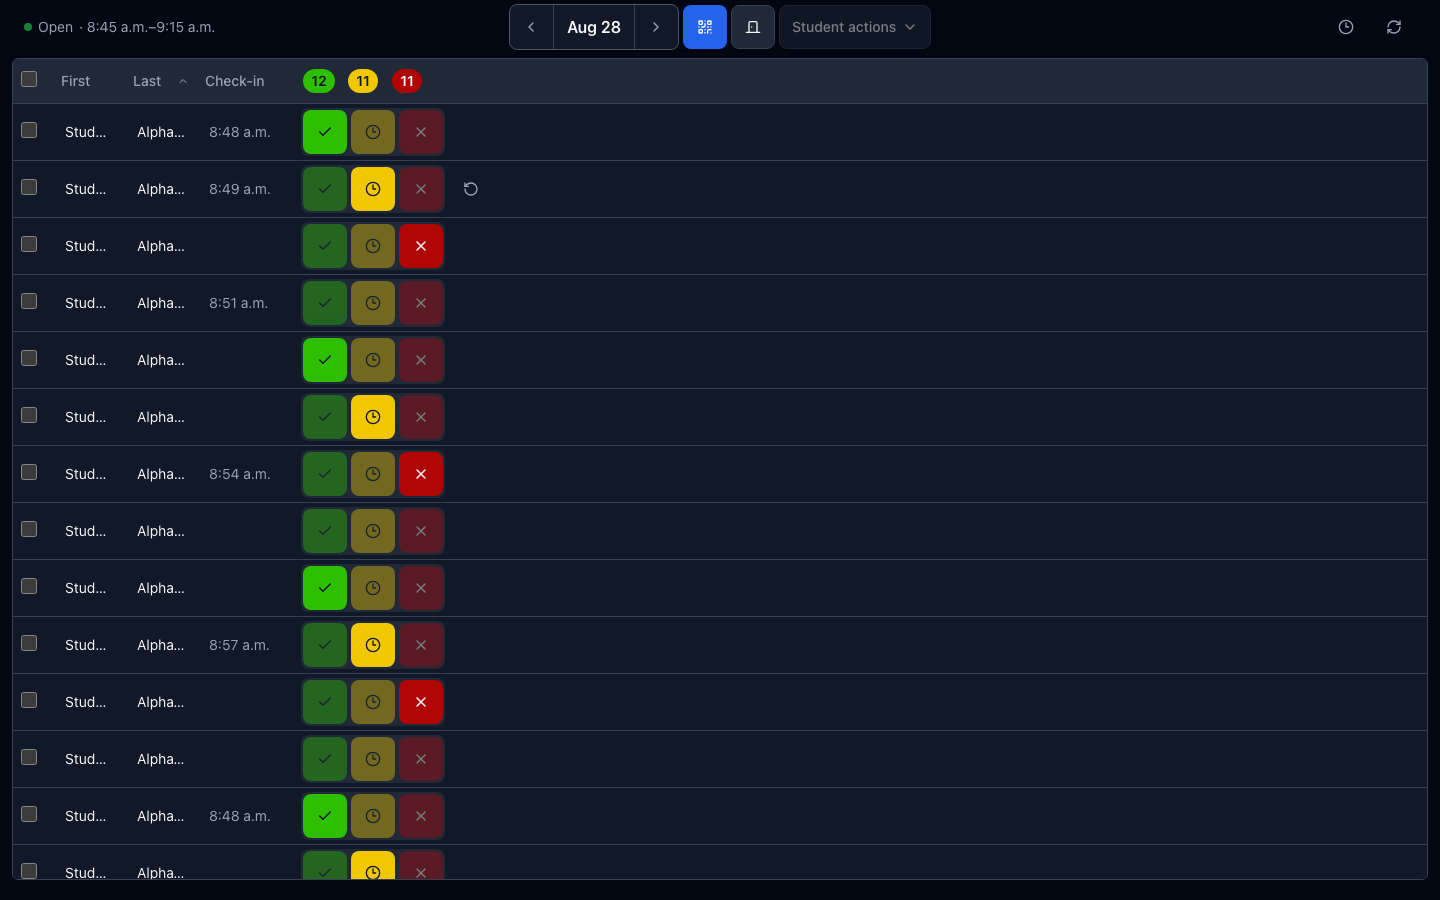
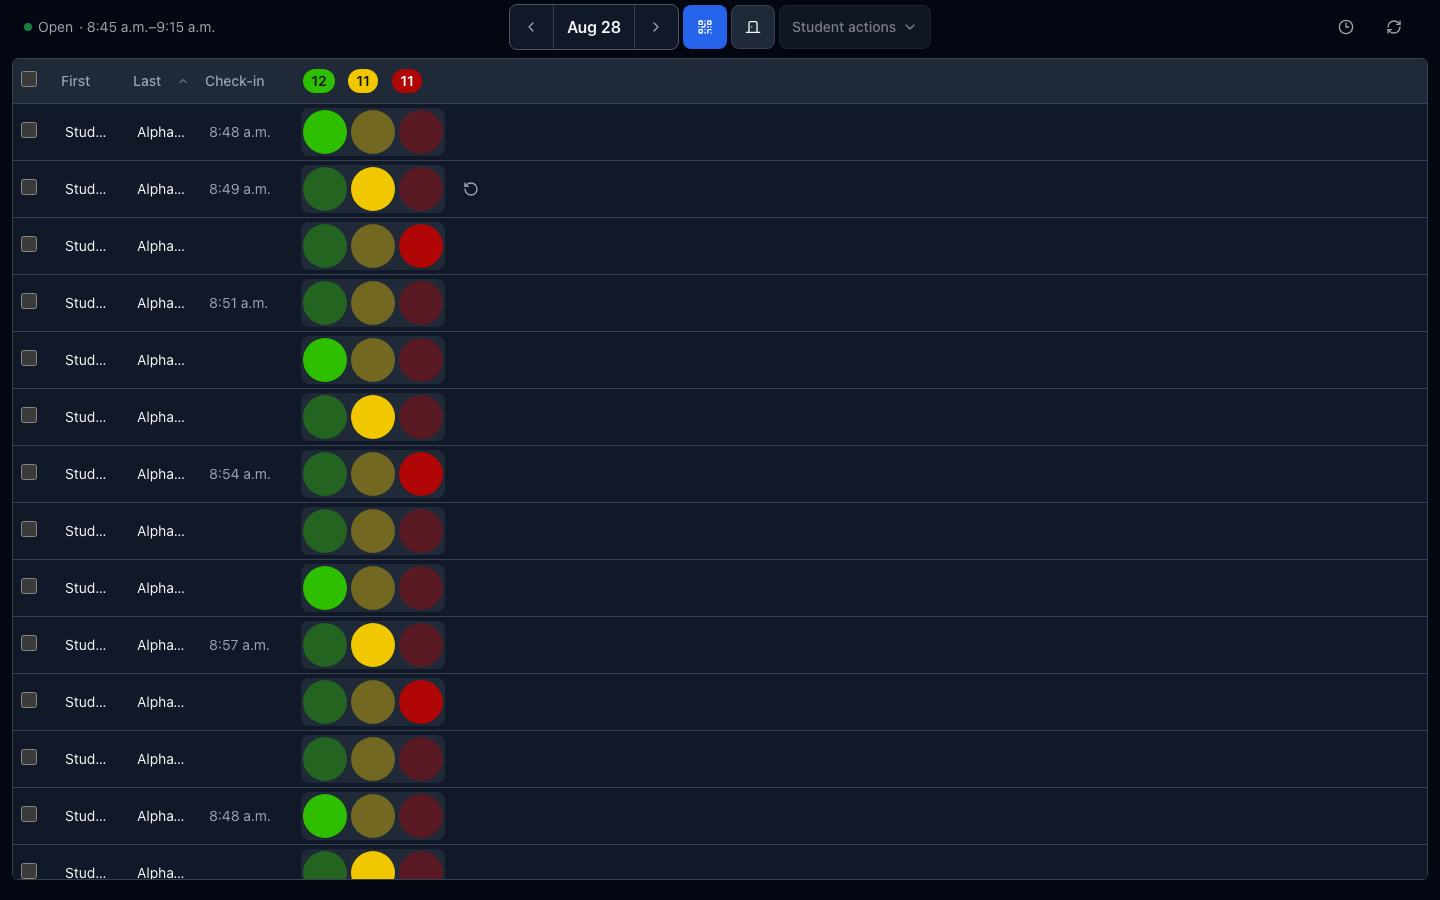
Refine Attendance row status controls

Changed region(s): [[0.2188, 0.1244, 0.3125, 0.9644]]

diff --git a/src/app/classrooms/[classroomId]/TeacherLiveAttendanceTab.tsx b/src/app/classrooms/[classroomId]/TeacherLiveAttendanceTab.tsx
@@ -1,9 +1,8 @@
 'use client'
 
-import { useCallback, useEffect, useMemo, useRef, useState, type ReactNode } from 'react'
+import { useCallback, useEffect, useMemo, useRef, useState } from 'react'
 import { addDays, format, parseISO } from 'date-fns'
 import {
-  Check,
   ChevronDown,
   ClipboardCopy,
   Clock3,
@@ -14,7 +13,6 @@ import {
   RotateCcw,
   UserRoundCheck,
   UserRoundX,
-  X,
 } from 'lucide-react'
 import { CalendarDateNavigator } from '@/components/CalendarActionBar'
 import {
@@ -98,12 +96,6 @@ const STATUS_BUTTON_CLASSES: Record<StatusSort, string> = {
   absent: 'border-transparent bg-attendance-absent text-attendance-absent-text hover:bg-attendance-absent',
 }
 
-const STATUS_ICONS: Record<StatusSort, ReactNode> = {
-  present: <Check className="h-4 w-4" aria-hidden="true" />,
-  late: <Clock3 className="h-4 w-4" aria-hidden="true" />,
-  absent: <X className="h-4 w-4" aria-hidden="true" />,
-}
-
 function AttendanceStatusSortChip({
   status,
   count,
@@ -163,9 +155,8 @@ function AttendanceStatusControl({
       options={SORTABLE_STATUSES.map((optionStatus) => ({
         value: optionStatus,
         label: STATUS_LABELS[optionStatus],
-        icon: STATUS_ICONS[optionStatus],
         disabled,
-        className: STATUS_BUTTON_CLASSES[optionStatus],
+        className: cn('rounded-full', STATUS_BUTTON_CLASSES[optionStatus]),
         activeClassName: 'opacity-100 shadow-sm',
         inactiveClassName: 'opacity-40 hover:opacity-70',
       }))}

diff --git a/e2e/experience-matrix.spec.ts b/e2e/experience-matrix.spec.ts
@@ -299,6 +299,21 @@ test('keeps the Attendance roster compact with inline status controls', async ({
   const firstStudentStatus = page.getByRole('group', {
     name: 'Attendance status for Student 01 Alpha01',
   })
+  for (const label of ['Present', 'Late', 'Absent']) {
+    const statusButton = firstStudentStatus.getByRole('button', { name: label })
+    await expect(statusButton.locator('svg')).toHaveCount(0)
+    const geometry = await statusButton.evaluate((element) => {
+      const styles = window.getComputedStyle(element)
+      const bounds = element.getBoundingClientRect()
+      return {
+        width: bounds.width,
+        height: bounds.height,
+        radius: Number.parseFloat(styles.borderTopLeftRadius),
+      }
+    })
+    expect(Math.abs(geometry.width - geometry.height)).toBeLessThan(1)
+    expect(geometry.radius).toBeGreaterThanOrEqual(geometry.width / 2)
+  }
   await expect(firstStudentStatus.getByRole('button', { name: 'Present' })).toHaveAttribute('aria-pressed', 'true')
   await firstStudentStatus.getByRole('button', { name: 'Late' }).click()
   await expect(page.getByRole('button', {

diff --git a/tests/components/TeacherLiveAttendanceTab.test.tsx b/tests/components/TeacherLiveAttendanceTab.test.tsx
@@ -229,6 +229,11 @@ describe('TeacherLiveAttendanceTab', () => {
       'bg-attendance-absent',
       'text-attendance-absent-text',
     )
+    for (const label of ['Present', 'Late', 'Absent']) {
+      const statusButton = within(graceStatus).getByRole('button', { name: label })
+      expect(statusButton).toHaveClass('rounded-full')
+      expect(statusButton.querySelector('svg')).not.toBeInTheDocument()
+    }
     expect(screen.getByTestId('attendance-context-bar')).not.toHaveTextContent(/\d+ present/i)
 
     const statusGroup = screen.getByRole('group', { name: 'Sort attendance by status' })

diff --git a/design-qa.md b/design-qa.md
@@ -2,7 +2,7 @@
 
 ## Comparison Target
 
-- Source visual truth: `docs/guidance/ui/evidence/attendance-actions-2026-08-27/approved-design-reference.png` for the selected hierarchy, plus the user's explicit interaction revisions through 2026-08-28 (checkbox selection and persistent selected-student menu restored; inline three-state corrections retained; QR Undo retained; Check-in time retained; visible `Status` header label removed)
+- Source visual truth: `docs/guidance/ui/evidence/attendance-actions-2026-08-27/approved-design-reference.png` for the selected hierarchy, plus the user's explicit interaction revisions through 2026-08-28 (checkbox selection and persistent selected-student menu restored; inline three-state corrections retained; QR Undo retained; Check-in time retained; visible `Status` header label removed; row attendance icons removed and the three status targets made circular)
 - Primary implementation screenshots:
   - `docs/guidance/ui/evidence/attendance-actions-2026-08-27/teacher-desktop-light-default.png`
   - `docs/guidance/ui/evidence/attendance-actions-2026-08-27/teacher-desktop-light-manual-with-undo.png`
@@ -21,6 +21,7 @@
 - Focused default comparison: `docs/guidance/ui/evidence/attendance-actions-2026-08-27/qa-focus-default.png`; the 1486 x 529 source default crop and 1440 x 529 implementation crop are placed side by side without density scaling.
 - Focused selected comparison: `docs/guidance/ui/evidence/attendance-actions-2026-08-27/qa-focus-selected-menu.png`; the 1486 x 529 source selected crop and 1440 x 529 implementation selected-menu crop are placed side by side without density scaling.
 - Revised interaction comparison: `docs/guidance/ui/evidence/attendance-actions-2026-08-27/qa-focus-revision.png`; the full source board was scaled to 900 px high and placed beside the unscaled 1440 x 900 implementation selected-menu state, with the user's explicit Attendance revisions treated as authoritative where they supersede the generated image.
+- Row-control before/after comparisons: `docs/guidance/ui/evidence/attendance-actions-2026-08-27/qa-circle-controls-desktop.png` at 2880 x 900 and `docs/guidance/ui/evidence/attendance-actions-2026-08-27/qa-circle-controls-mobile.png` at 780 x 844; each places the preceding icon-bearing implementation beside the revised circular implementation at matching viewport, theme, state, and density.
 - The source is an exploration board rather than a browser capture, so comparisons judge hierarchy and component treatment rather than false pixel precision.
 
 ## Findings
@@ -29,14 +30,21 @@ No actionable P0, P1, or P2 mismatch remains.
 
 - Fonts and typography: the implementation uses Pika's production font stack, weights, and compact table type scale. The generated source typography is illustrative; hierarchy, legibility, and truncation behavior are consistent with the shared work surface.
 - Spacing and layout rhythm: the centered cluster, quiet edges, tight roster, and table border/radius match the selected hierarchy. The date arrows directly touch the date segment. At 390 px, nonessential session context is visually condensed and session commands/utilities collapse to one compact icon menu without overlap.
-- Colors and visual tokens: semantic Pika surface, text, focus, attendance-status, light, and dark tokens render consistently. The active state is full-strength while the other two status choices remain visible at lower emphasis; icons and `aria-pressed` ensure the control does not rely on color alone.
-- Image quality and asset fidelity: the work surface requires no photographic or generated product asset. Production Lucide icons replace the generated board's illustrative icons and remain optically consistent with the existing Pika icon family; no handcrafted SVG, CSS art, emoji, or placeholder imagery was introduced.
+- Colors and visual tokens: semantic Pika surface, text, focus, attendance-status, light, and dark tokens render consistently. The active state is full-strength while the other two status choices remain visible at lower emphasis. The fixed Present/Late/Absent order, hover/focus tooltips, and accessible names provide meaning beyond color after the user-requested icon removal.
+- Image quality and asset fidelity: the work surface requires no photographic or generated product asset. The row attendance controls intentionally contain no icons; remaining utility and menu icons use Pika's existing Lucide family. No handcrafted SVG, CSS art, emoji, or placeholder imagery was introduced.
 - Copy and content: the implementation preserves Attendance-specific terms (`Show QR`, `Open attendance`, `Close attendance`, `Present`, `Late`, `Absent`, `Restore QR check-in`, and `Attendance hours`) and does not import Test terminology. `Check-in` contains the Toronto-local QR check-in time and is visually empty when the student has no QR check-in.
-- Icons and affordances: every icon action has an explicit accessible name and tooltip. The selectable date contains no dropdown chevron. The persistent selected-student menu uses Attendance terms and remains disabled until selection. Row status controls use the green/check, yellow/clock, and red/x mapping, and the trailing header keeps only the matching sortable counts without a visible `Status` label.
+- Icons and affordances: every remaining icon action has an explicit accessible name and tooltip. The selectable date contains no dropdown chevron. The persistent selected-student menu uses Attendance terms and remains disabled until selection. Row status controls are three equal circular, icon-free targets in the fixed green Present, yellow Late, red Absent order; their tooltips and accessible names preserve explicit meaning. The trailing header keeps only the matching sortable counts without a visible `Status` label.
 - Responsiveness and accessibility: desktop/mobile light/dark captures have no document overflow. All direct controls meet the 44 px `min-h-control` target and use the canonical focus-visible treatment. The three-state control supplies a named group, named pressed-state buttons, roving focus, and Arrow/Home/End behavior. Mobile session and utility menus retain all actions.
-- Interaction/runtime check: checkbox selection, select-all semantics, the selected-student menu, direct row status changes, QR Undo visibility, status sorting, internal scrolling/sticky header, mobile session menu, utilities, and Attendance hours were exercised in Chromium. Browser console and page errors were collected and remained empty in all four projects.
+- Interaction/runtime check: checkbox selection, select-all semantics, the selected-student menu, direct row status changes, QR Undo visibility, status sorting, internal scrolling/sticky header, mobile session menu, utilities, and Attendance hours were exercised in Chromium. The matrix additionally asserts zero SVG descendants, equal width/height, and a radius of at least half the width for every row status target. Browser console and page errors were collected and remained empty in all four projects.
 
 ## Comparison History
+
+### Pass 6 — icon-free circular row controls, passed
+
+- Removed the check, clock, and x icons only from the three attendance buttons inside each roster row; selected-student menu and utility icons remain unchanged.
+- Changed each 44 x 44 status target from a rounded square to a circle while preserving semantic color, fixed Present/Late/Absent order, tooltips, named pressed states, and roving Arrow/Home/End keyboard behavior.
+- Desktop/mobile light/dark before/after boards and the refreshed source/implementation comparisons show the roster density and hierarchy unchanged. The four-project Chromium matrix passed with no browser or page errors and explicit circle/icon-absence geometry checks.
+- No actionable P0/P1/P2 issue remains.
 
 ### Pass 5 — checkbox selection restored, passed
 

diff --git a/docs/guidance/ui/evidence/attendance-actions-2026-08-27/record.md b/docs/guidance/ui/evidence/attendance-actions-2026-08-27/record.md
@@ -5,7 +5,7 @@
 - Implementation commit: `8ea38427900b754eab01cf9f972d01c9663e0d50`
 - Capture date: 2026-08-28
 - Capture tool: Playwright Chromium through `e2e/experience-matrix.spec.ts`
-- Base URL or environment: local `PIKA_E2E_FIXTURES=true` Next.js development server with placeholder-only build/runtime configuration
+- Base URL or environment: local `PIKA_E2E_FIXTURES=true` Next.js development server backed by the local ephemeral Supabase environment
 - Routes or component surfaces: `/e2e-fixtures/teacher-live-attendance`; teacher Attendance roster
 - Evidence location: `docs/guidance/ui/evidence/attendance-actions-2026-08-27/`
 - Historical baseline or current conformance evidence: current conformance evidence; `approved-design-reference.png` is the selected Product Design exploration, not product authority
@@ -31,6 +31,8 @@
 | `teacher-mobile-dark-manual-with-undo.png` | teacher | 390 x 844 | dark | QR check-in manually corrected; Undo visible; one row selected | teacher Attendance |
 | `teacher-mobile-dark-selected-menu.png` | teacher | 390 x 844 | dark | one checked student; selected-student menu open | teacher Attendance |
 | `teacher-mobile-dark-hours-dialog.png` | teacher | 390 x 844 | dark | Attendance hours dialog | teacher Attendance |
+| `qa-circle-controls-desktop.png` | teacher | 2880 x 900 comparison | light | preceding icon-bearing row controls beside revised icon-free circular controls | teacher Attendance |
+| `qa-circle-controls-mobile.png` | teacher | 780 x 844 comparison | dark | preceding icon-bearing row controls beside revised icon-free circular controls | teacher Attendance |
 
 The `*-selected.png` captures mirror the current manually corrected selected-row
 state. The `*-selected-menu.png` captures are the authoritative selected-action
@@ -40,7 +42,7 @@ the superseded whole-roster action direction and are no longer conformance evide
 ## Assessment
 
 - Design claim being checked: the date and session context stay quiet at the edges, while the joined date navigator, session actions, and persistent selected-student menu form the dominant centered cluster above an internally scrolling roster with checkbox selection and inline row corrections.
-- Confirmed invariants: previous/date/next controls are contiguous; the selectable date has no dropdown chevron; each student has a checkbox and the header has a select-all checkbox; the selected-student menu stays visible but disabled with no selection and exposes the selected count when enabled; whole-roster status buttons are absent; per-student controls expose three named pressed states; the trailing header shows sortable Present/Late/Absent counts without a visible `Status` label; QR-origin corrections expose Undo; Check-in shows the QR time or remains visually empty; mobile session actions collapse without losing QR/open/close/hours/refresh access; utilities remain reachable; the roster scrolls internally with sticky sortable/resizable headers; there is no page overflow or action overlap.
+- Confirmed invariants: previous/date/next controls are contiguous; the selectable date has no dropdown chevron; each student has a checkbox and the header has a select-all checkbox; the selected-student menu stays visible but disabled with no selection and exposes the selected count when enabled; whole-roster status buttons are absent; per-student controls expose three named pressed states as equal icon-free circles in fixed Present/Late/Absent order; the trailing header shows sortable Present/Late/Absent counts without a visible `Status` label; QR-origin corrections expose Undo; Check-in shows the QR time or remains visually empty; mobile session actions collapse without losing QR/open/close/hours/refresh access; utilities remain reachable; the roster scrolls internally with sticky sortable/resizable headers; there is no page overflow or action overlap.
 - Inconsistencies or migration debt: none identified for this scope.
 - Intentional differences: the implementation retains Attendance terminology, existing QR/session command rules, Pika typography/tokens, real command-confirmation polling, and existing permission gates. It projects the original QR check-in time/status from Pika's signed integration inbox so a later staff correction does not erase the provenance needed by Undo. Mobile condenses session context and utilities while preserving the centered date/session/selection hierarchy at 390 px.
 - Limitations or dimensions not covered: no separate tablet viewport; student view is not applicable because this is a teacher-only work surface; backend integration behavior remains covered by existing component/API tests rather than the visual fixture.
@@ -50,15 +52,12 @@ the superseded whole-roster action direction and are no longer conformance evide
 
 - Checklist reviewed: yes
 - Keyboard behavior covered: yes; the joined date navigator, menu, checkboxes, sortable counts, and three-state row controls have reachable targets; menus support Arrow/Home/End/Escape with focus restoration, and segmented controls support Arrow/Home/End movement with roving focus
-- Semantic state covered by tests: yes; checkbox state, selected-row state, menu disabled/enabled state, selected count, pressed states, Undo labels, tooltips, and accessible group names are asserted
+- Semantic state covered by tests: yes; checkbox state, selected-row state, menu disabled/enabled state, selected count, pressed states, Undo labels, tooltips, accessible group names, absence of row-button icons, and circular geometry are asserted
 - Remaining manual follow-up: none
 
 ## Guidance Decision
 
-Durable guidance changed only to correct the Attendance reference and mapping:
-Attendance now demonstrates checkbox-driven batch corrections plus immediate,
-reversible inline row corrections. Existing reusable rules for quiet edge
-utilities, persistent selection-aware menus, compact internal scrolling, and
-sticky sortable/resizable headers were otherwise sufficient. The joined
-Attendance date treatment remains a scoped component option until another
-product surface proves it reusable.
+No durable guidance changed for this refinement. Icon-free circular row status
+targets are an Attendance-specific treatment; existing reusable rules for quiet
+edge utilities, persistent selection-aware menus, compact internal scrolling,
+and sticky sortable/resizable headers remain sufficient.

diff --git a/.ai/SESSION-LOG.md b/.ai/SESSION-LOG.md
@@ -11,6 +11,31 @@ Rolling recent session log for AI/human handoffs. Keep this file small; full his
 - The trim step appends removed entries to `.ai/JOURNAL-ARCHIVE.md`, so trimming never loses history.
 - Use `.ai/JOURNAL-ARCHIVE.md` only for historical investigation.
 
+## 2026-08-26 — Canonicalize Test-question identity from draft creation
+
+**Risk profile:** runtime-platform — application identity synchronization,
+transactional migration/backfill, immutable-Version instantiation, and database
+contract changes; no hosted migration, deployment, or merge occurred.
+
+- Defined `TestDraftQuestion.id` as the portable Artifact ID assigned when the
+  question is created; `test_questions.id` remains an internal row identity.
+  New persisted questions now store the draft UUID in `artifact_id`, and draft
+  reconstruction prefers source/artifact identity over row identity.
+- Made activation preflight and synchronize by artifact/source identity without
+  positional matching or partial updates on identity ambiguity. Blueprint
+  capture and archived reuse now validate source identity read-only; draft-only
+  IDs remain portable without creating or rewriting source rows.
+- Migration 134 transactionally backfills legacy row-ID draft JSON, fails closed
+  on ambiguous matches, and rematerializes newly instantiated Version questions
+  with explicit artifact/source IDs rather than inferring them by position.
+- Rebased the worktree onto PR #1066 head `cc7c14d7` while retaining the
+  separately completed durable failure-ledger remediation. The authorized local
+  database was reset without seed to replay the final migration; hosted state
+  was untouched.
+- The canonical identity and broader Versioned Blueprint database contracts
+  pass. The full Vitest suite passes (5,106/5,106), as do lint, the production
+  build, generated Supabase type checks, diff checks, and the Pika audit.
+
 ## 2026-08-26 — Make Blueprint question identity capture draft-safe
 
 **Risk profile:** runtime-platform — proposed migration and rollback-only test
@@ -1310,3 +1335,28 @@ teacher-only surface.
 **Model recommendation:** GPT-5.6 Terra/high for one bounded independent review
 of requirements coverage, selection behavior, accessibility, evidence, and
 responsive regression risk.
+
+## 2026-08-28 — Refine Attendance row status targets
+
+**Risk profile:** low visual/composite-widget refinement — only the appearance
+of the existing teacher row status targets changed; status semantics, commands,
+permissions, selection, QR Undo, API/schema behavior, and student UI are
+unchanged.
+
+- Removed the check, clock, and x icons from each row's Present/Late/Absent
+  targets and changed the three 44 x 44 targets from rounded squares to circles.
+- Preserved fixed Present/Late/Absent order, semantic attendance colors,
+  tooltips, named `aria-pressed` buttons, and roving Arrow/Home/End keyboard
+  behavior.
+- Added component and browser assertions for icon absence and circular geometry,
+  then refreshed desktop/mobile light/dark default, selected-menu,
+  manual-with-Undo, and hours evidence plus before/after comparison boards.
+- No durable guidance changed because the treatment is Attendance-specific.
+- Composite-widget accessibility checklist reviewed: yes; keyboard behavior
+  covered: yes; semantic state, tooltip naming, icon absence, and geometry
+  covered by tests: yes; remaining manual follow-up: none.
+
+**Verification:** focused component/UI tests (20/20), responsive Attendance
+Playwright matrix (4/4) with no browser/page errors, TypeScript, lint, Pika
+audit, diff checks, and combined source/rendered Product Design comparison pass.
+Student UI is n/a because this remains a teacher-only surface.
